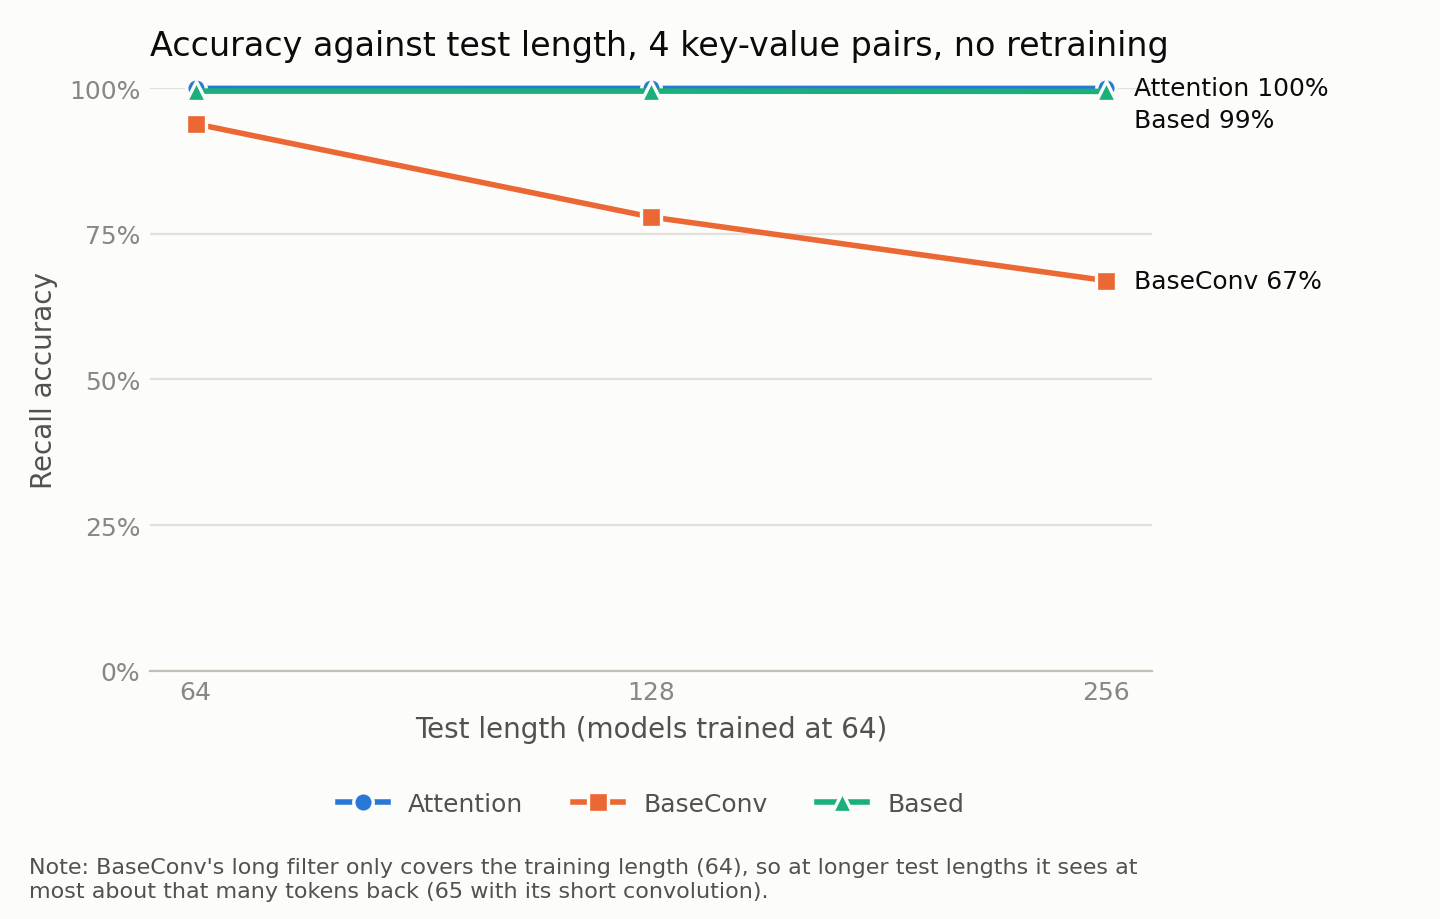
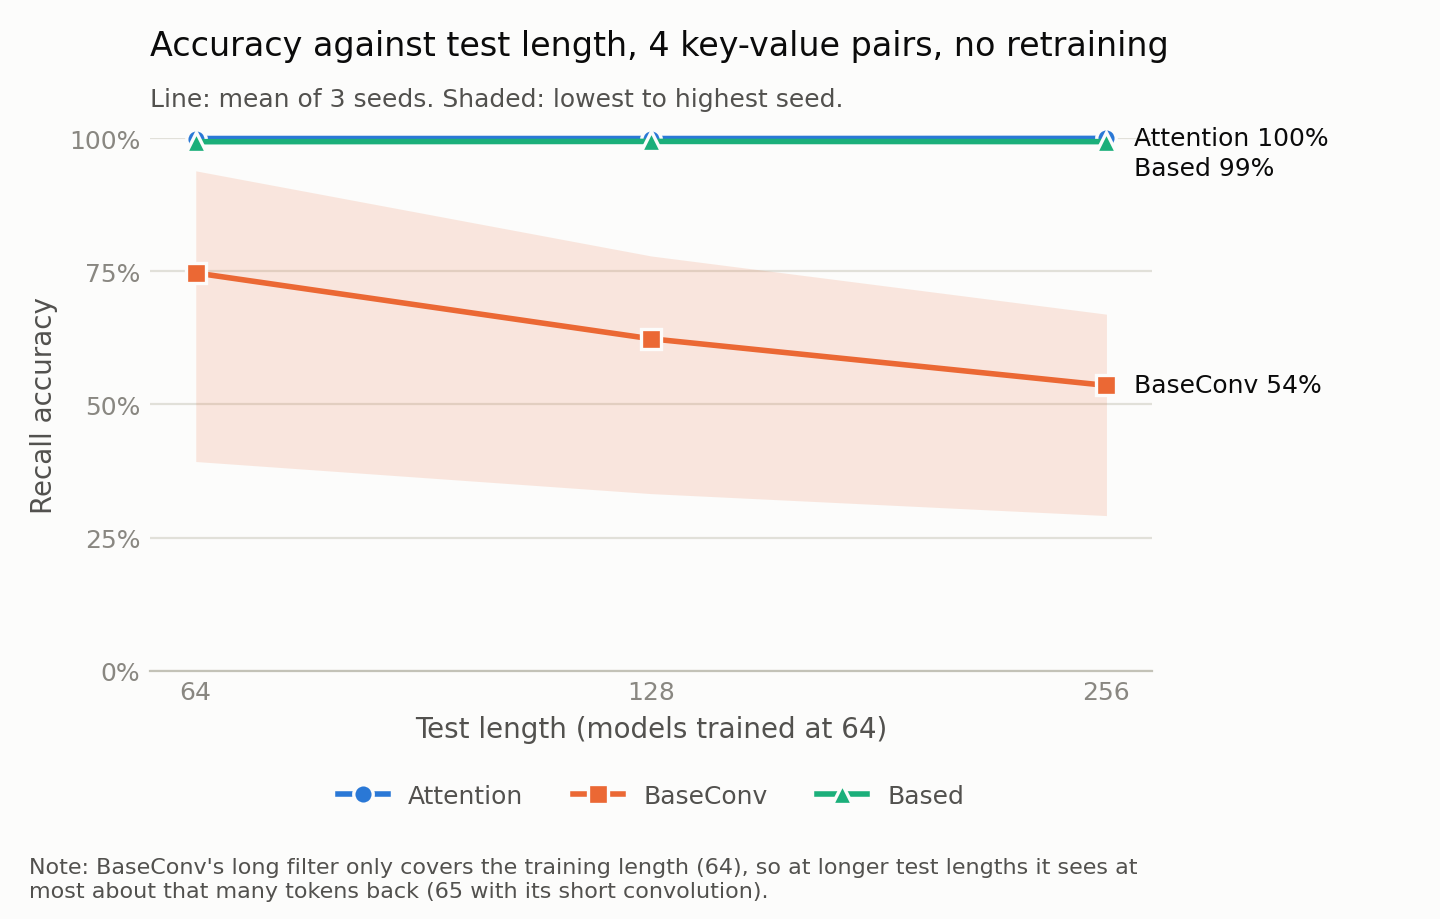
Plot mean and range over 3 seeds

diff --git a/experiments/zoology_repro/plot.py b/experiments/zoology_repro/plot.py
@@ -1,11 +1,14 @@
 """
 Plots accuracy against test length, with one line per model.
 
-Each line is the model's best length 64 run, chosen by accuracy at length 64 only, so the
-longer test lengths play no part in the choice. Ties go to the smaller width.
+Each model uses the settings of its best length 64 run, chosen by accuracy at length 64 only, so
+the longer test lengths play no part in the choice. Ties go to the smaller width.
 The number of key-value pairs is fixed at 4, so only the length changes.
 
-Run from the repository root, after evaluate_length.py:
+If seeds.py has been run, each line is the mean over seeds and the shaded band runs from the
+lowest to the highest seed. Otherwise each line is the single chosen run.
+
+Run from the repository root, after evaluate_length.py (and again after seeds.py):
     python -m zoology.experiments.zoology_repro.plot
 """
 import textwrap
@@ -35,13 +38,26 @@ def select_runs(df: pd.DataFrame) -> pd.DataFrame:
     return runs.groupby("model").head(1)
 
 
+def plot_data(df: pd.DataFrame, selected: pd.DataFrame):
+    """Mean, lowest and highest accuracy per model and test length, over all seeds available."""
+    seed_file = RESULTS_DIR / "seed_length.csv"
+    if seed_file.exists():
+        runs = pd.read_csv(seed_file)
+    else:
+        runs = df[df.run_id.isin(selected.run_id)].assign(seed=0)
+    runs = runs[runs.kv_setting == "fixed_kv"]
+    num_seeds = int(runs.groupby("model").seed.nunique().min())
+    lines = runs.groupby(["model", "test_length"]).accuracy.agg(["mean", "min", "max"]).reset_index()
+    return lines.sort_values("test_length"), num_seeds
+
+
 def main():
     df = pd.read_csv(RESULTS_DIR / "length_generalization.csv")
     selected = select_runs(df)
     selected[["model", "d_model", "learning_rate", "valid_accuracy_at_train_length", "run_id"]].to_csv(
         RESULTS_DIR / "plotted_runs.csv", index=False
     )
-    lines = df[df.run_id.isin(selected.run_id) & (df.kv_setting == "fixed_kv")].sort_values("test_length")
+    lines, num_seeds = plot_data(df, selected)
     lengths = sorted(lines.test_length.unique())
 
     fig, ax = plt.subplots(figsize=(7.2, 4.6), dpi=200, facecolor=SURFACE)
@@ -51,9 +67,12 @@ def main():
         run = lines[lines.model == key]
         if run.empty:
             continue
-        ax.plot(run.test_length, run.accuracy, color=color, linewidth=2, marker=marker, markersize=7,
+        if num_seeds > 1:
+            ax.fill_between(run.test_length, run["min"], run["max"], color=color, alpha=0.15,
+                            linewidth=0, zorder=2)
+        ax.plot(run.test_length, run["mean"], color=color, linewidth=2, marker=marker, markersize=7,
                 markeredgecolor=SURFACE, markeredgewidth=1.2, label=label, clip_on=False, zorder=3)
-        end_labels.append([label, float(run.accuracy.iloc[-1])])
+        end_labels.append([label, float(run["mean"].iloc[-1])])
 
     # direct labels, spread apart when lines end close together
     end_labels.sort(key=lambda item: item[1], reverse=True)
@@ -72,7 +91,10 @@ def main():
     ax.set_xlabel("Test length (models trained at 64)", color=SECONDARY, fontsize=10)
     ax.set_ylabel("Recall accuracy", color=SECONDARY, fontsize=10)
     ax.set_title("Accuracy against test length, 4 key-value pairs, no retraining",
-                 loc="left", color=INK, fontsize=12, pad=12)
+                 loc="left", color=INK, fontsize=12, pad=30)
+    subtitle = (f"Line: mean of {num_seeds} seeds. Shaded: lowest to highest seed."
+                if num_seeds > 1 else "One seed per model.")
+    ax.text(0, 1.06, subtitle, transform=ax.transAxes, color=SECONDARY, fontsize=9)
     ax.grid(axis="y", color=GRID, linewidth=0.8)
     ax.set_axisbelow(True)
     ax.tick_params(colors=MUTED, length=0, labelsize=9)

diff --git a/README.md b/README.md
@@ -20,8 +20,9 @@ run anything here.
 ![Accuracy against test length](results/length_generalization.png)
 
 All models were trained at length 64 and tested without retraining, with 4 key-value pairs at
-every length. The plot and the tables marked "seed 123" show each model's best run from the sweep,
-chosen by accuracy at length 64 only.
+every length. Each model uses the settings of its best run from the sweep, chosen by accuracy at
+length 64 only. The plot shows the mean of 3 seeds, with the shaded band running from the lowest to
+the highest seed. The table below and the tables marked "seed 123" show the original best run.
 
 | Model | Width | Length 64 | Length 128 | Length 256 |
 |---|---|---|---|---|
@@ -161,6 +162,7 @@ python -m zoology.experiments.zoology_repro.plot
 
 python -m zoology.launch zoology/experiments/zoology_repro/seeds.py
 python -m zoology.experiments.zoology_repro.seeds
+python -m zoology.experiments.zoology_repro.plot
 
 python -m zoology.launch zoology/experiments/zoology_repro/gap.py
 python -m zoology.experiments.zoology_repro.gap
